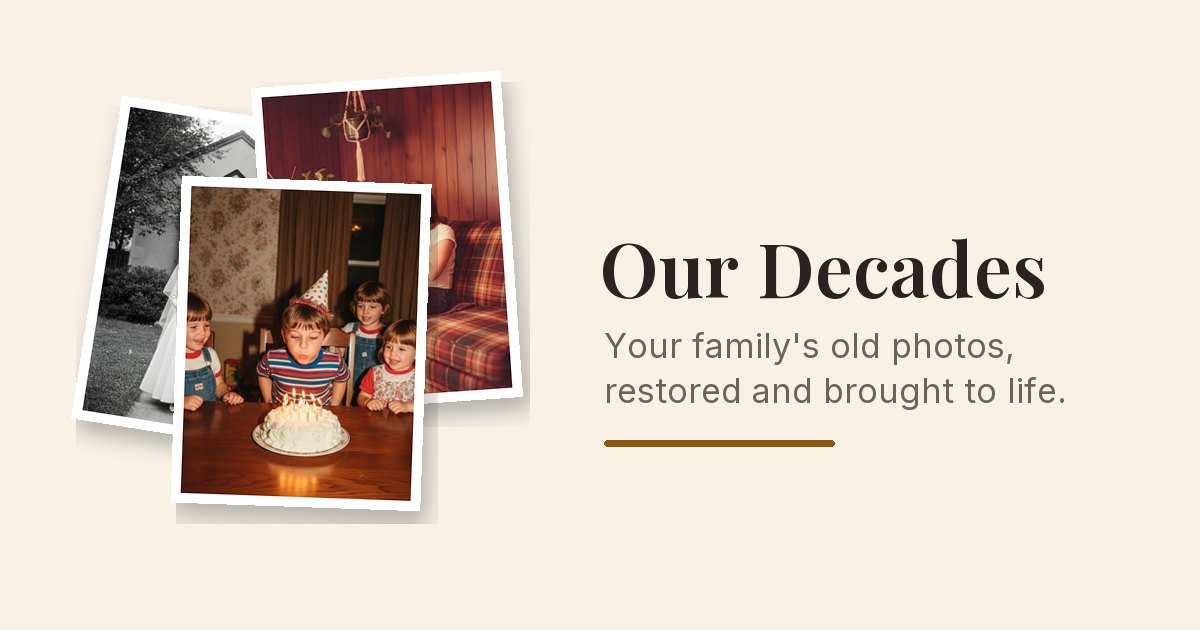
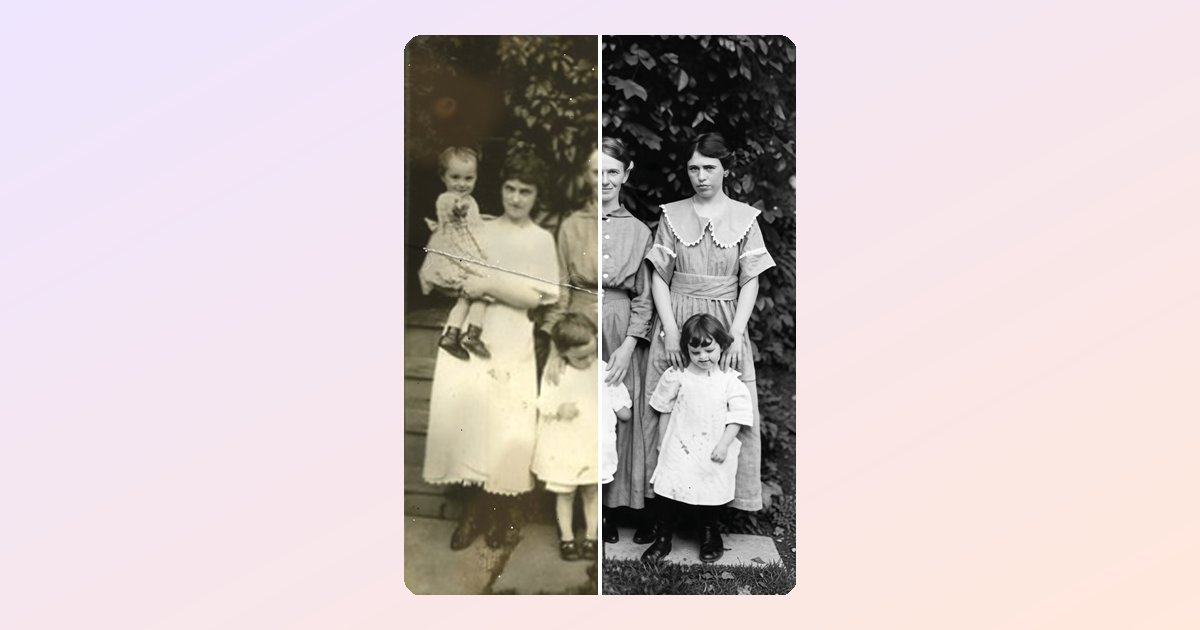
Home page: a real box to leave an email (the mailto: button did nothing in most browsers); privacy line for it; terms in the current look

diff --git a/index.html b/index.html
@@ -19,7 +19,7 @@
 <style>
 :root{--bg:#000000;--surface:#1C1C1E;--text:#F7F7F8;--text2:#A4A3AE;--accent:#B4A2FF;--tint:#241D45;
   --wash1:#2A1960;--wash2:#3E1238;--main:linear-gradient(90deg,#D62A84,#6A45F5);
-  --ink:linear-gradient(90deg,#FF6DB3,#B4A2FF);--line:rgba(255,255,255,.1);color-scheme:dark}
+  --ink:linear-gradient(90deg,#FF6DB3,#B4A2FF);--line:rgba(255,255,255,.1);--warn:#FF9AB8;color-scheme:dark}
 *{box-sizing:border-box}
 html{-webkit-text-size-adjust:100%;scroll-behavior:smooth;background:var(--bg)}
 body{margin:0;background:var(--bg);color:var(--text);overflow-x:clip;
@@ -38,6 +38,15 @@ a{color:var(--accent)}
 .pill.main{background:var(--main);color:#FFFFFF}
 .pill.small{min-height:44px;padding:0 18px;font-size:15px;white-space:nowrap}
 .pill:active{opacity:.85}
+.notify{display:flex;flex-wrap:wrap;gap:10px;width:100%;max-width:540px}
+.notify [hidden]{display:none!important}
+.notify input[type=email]{flex:1 1 220px;min-width:0;min-height:52px;padding:0 22px;border-radius:999px;font:inherit;
+  font-size:17px;color:var(--text);background:var(--surface);border:1px solid var(--line)}
+.notify input[type=email]::placeholder{color:var(--text2)}
+.notify .pill{flex:0 0 auto;border:0;font:inherit;font-weight:600;cursor:pointer}
+.notify .pill:disabled{opacity:.6}
+.notify .done{flex-basis:100%;margin:0;font-size:19px;font-weight:600;color:var(--text)}
+.notify .err{flex-basis:100%;margin:0;font-size:15px;color:var(--warn)}
 .brand{display:inline-flex;align-items:center;gap:10px;color:var(--text);text-decoration:none;
   font:800 18px/1 ui-rounded,"SF Pro Rounded",system-ui,sans-serif}
 .brand img{width:32px;height:32px;border-radius:8px}
@@ -229,7 +238,7 @@ h2{font-size:clamp(28px,4.4vw,46px);line-height:1.08}
 </style></head><body>
 
 <header class="nav"><div class="wrap"><a class="brand" href="#top"><img src="/home/icon-64.png" alt="" width="32"
-height="32">Our Decades</a><a class="pill main small get" href="mailto:hello@our-decades.com?subject=Tell%20me%20when%20Our%20Decades%20is%20on%20the%20App%20Store">Email me</a></div></header>
+height="32">Our Decades</a><a class="pill main small get" href="#notify">Email me</a></div></header>
 
 <main id="top">
 <section class="hero" style="padding:0"><div class="wrap">
@@ -238,7 +247,7 @@ height="32">Our Decades</a><a class="pill main small get" href="mailto:hello@our
     <h1>Scan the family album. Get every photo back <span class="ink">restored</span></h1>
     <p class="sub">Point your iPhone at an album page. Every photo on it is cut out, straightened and restored: fading,
     scratches and dust, fixed for you</p>
-    <div class="cta" id="herocta"><a class="pill main get" href="mailto:hello@our-decades.com?subject=Tell%20me%20when%20Our%20Decades%20is%20on%20the%20App%20Store">Email me when it’s live</a><span class="note"><b>Coming to the App Store this week</b><br>Your first 15 photos are free</span></div>
+    <div class="cta" id="herocta"><form class="notify" id="notify" action="https://api.our-decades.com/notify" method="post"><input type="email" name="email" required maxlength="254" autocomplete="email" inputmode="email" placeholder="Your email" aria-label="Your email"><input type="hidden" name="from" value="hero"><button class="pill main get" type="submit">Email me when it’s live</button><p class="done" role="status" hidden>Thanks. We’ll email you the day it’s live</p><p class="err" role="alert" hidden></p></form><span class="note"><b>Coming to the App Store this week</b><br>Your first 15 photos are free</span></div>
   </div>
   <div class="phone" role="img" aria-label="An iPhone showing a creased old print being restored">
     <div class="bar"></div>
@@ -314,17 +323,17 @@ height="32">Our Decades</a><a class="pill main small get" href="mailto:hello@our
 </div></div></section>
 
 <section id="faq" style="padding-top:0"><div class="wrap"><div class="head"><h2>Questions</h2></div>
-  <div class="faq"><details><summary>Is it really free?</summary><p>Your first 15 photos are free: restored, and yours to keep. You can start without signing in. Free photos you save or share carry a small “Made with Our Decades” mark; the yearly plan or the 100 photos removes it</p></details><details><summary>Do I need a scanner?</summary><p>No. Your iPhone’s camera is the scanner. Point it at a whole album page and every print on it becomes its own photo. Old pictures already on your iPhone, or in a WhatsApp chat, work too</p></details><details><summary>Will it change how people look?</summary><p>The restore is made to keep every face theirs, and we’d rather do less than turn someone into a stranger. The original scan is always kept: hold a photo to see it</p></details><details><summary>How do I cancel, or delete everything?</summary><p>Cancel the yearly plan any time in your iPhone’s Settings, under your name, then Subscriptions. What you made stays yours. To remove your account and every photo, story and video: Settings in the app, “Delete my account and photos”. Deleted means deleted</p></details><details><summary>When can I get it?</summary><p>Our Decades is coming to the App Store this week, on iPhone, in the United States. Write to <a href="mailto:hello@our-decades.com?subject=Tell%20me%20when%20Our%20Decades%20is%20on%20the%20App%20Store">hello@our-decades.com</a> and we’ll tell you the day it’s live</p></details></div></div></section>
+  <div class="faq"><details><summary>Is it really free?</summary><p>Your first 15 photos are free: restored, and yours to keep. You can start without signing in. Free photos you save or share carry a small “Made with Our Decades” mark; the yearly plan or the 100 photos removes it</p></details><details><summary>Do I need a scanner?</summary><p>No. Your iPhone’s camera is the scanner. Point it at a whole album page and every print on it becomes its own photo. Old pictures already on your iPhone, or in a WhatsApp chat, work too</p></details><details><summary>Will it change how people look?</summary><p>The restore is made to keep every face theirs, and we’d rather do less than turn someone into a stranger. The original scan is always kept: hold a photo to see it</p></details><details><summary>How do I cancel, or delete everything?</summary><p>Cancel the yearly plan any time in your iPhone’s Settings, under your name, then Subscriptions. What you made stays yours. To remove your account and every photo, story and video: Settings in the app, “Delete my account and photos”. Deleted means deleted</p></details><details><summary>When can I get it?</summary><p>Our Decades is coming to the App Store this week, on iPhone, in the United States. <a href="#notify">Leave your email</a> and we’ll tell you the day it’s live</p></details></div></div></section>
 
 <section class="final"><div class="wrap">
   <h2 class="reveal">Start with one page</h2>
   <p class="dim reveal" style="margin-top:12px;font-size:19px">Your first 15 photos are free. No sign-in to start</p>
-  <div class="cta"><a class="pill main get" href="mailto:hello@our-decades.com?subject=Tell%20me%20when%20Our%20Decades%20is%20on%20the%20App%20Store">Email me when it’s live</a><span class="note">Coming to the App Store this week</span></div>
+  <div class="cta"><form class="notify" action="https://api.our-decades.com/notify" method="post"><input type="email" name="email" required maxlength="254" autocomplete="email" inputmode="email" placeholder="Your email" aria-label="Your email"><input type="hidden" name="from" value="final"><button class="pill main get" type="submit">Email me when it’s live</button><p class="done" role="status" hidden>Thanks. We’ll email you the day it’s live</p><p class="err" role="alert" hidden></p></form><span class="note">Coming to the App Store this week</span></div>
 </div></section>
 </main>
 <footer><div><a href="/privacy">Privacy</a><a href="/terms">Terms</a><a href="/support">Support</a></div>
 <p>Our Decades is on iPhone, in the United States · © 2026 Redwood Oaks LLC</p></footer>
-<div class="stick" id="stick"><span>Our Decades<br><span class="dim" style="font-weight:400">Coming to the App Store this week</span></span><a class="pill main small get" href="mailto:hello@our-decades.com?subject=Tell%20me%20when%20Our%20Decades%20is%20on%20the%20App%20Store">Email me</a></div>
+<div class="stick" id="stick"><span>Our Decades<br><span class="dim" style="font-weight:400">Coming to the App Store this week</span></span><a class="pill main small get" href="#notify">Email me</a></div>
 <script>
 (function(){
   var rm=matchMedia('(prefers-reduced-motion:reduce)').matches;
@@ -362,6 +371,19 @@ height="32">Our Decades</a><a class="pill main small get" href="mailto:hello@our
   document.querySelectorAll('.tabs button').forEach(function(b){b.addEventListener('click',function(){
     document.querySelectorAll('.tabs button').forEach(function(x){x.setAttribute('aria-pressed',x===b)});
     document.querySelectorAll('[data-pane]').forEach(function(p){p.hidden=p.getAttribute('data-pane')!==b.getAttribute('data-tab')})})});
+  // "Email me when it's live": saved on our server, answered on the page (no mail app needed)
+  document.querySelectorAll('form.notify').forEach(function(f){f.addEventListener('submit',function(ev){
+    ev.preventDefault();var b=f.querySelector('button'),err=f.querySelector('.err');b.disabled=true;err.hidden=true;
+    fetch(f.action+'?js=1',{method:'POST',body:new URLSearchParams(new FormData(f))})
+      .then(function(r){if(!r.ok)throw r;return r.json()})
+      .then(function(){document.querySelectorAll('form.notify').forEach(function(g){
+        g.querySelectorAll('input,button').forEach(function(x){x.hidden=true});g.querySelector('.done').hidden=false})})
+      .catch(function(r){b.disabled=false;err.textContent=r&&r.status===422?'That email doesn’t look right':
+        'That didn’t go through. Try again';err.hidden=false})})});
+  document.querySelectorAll('a[href="#notify"]').forEach(function(a){a.addEventListener('click',function(ev){
+    var box=document.getElementById('notify');if(!box)return;ev.preventDefault();
+    box.scrollIntoView({behavior:rm?'auto':'smooth',block:'center'});
+    var i=box.querySelector('input[type=email]');if(i&&!i.hidden)i.focus({preventScroll:true})})});
   // the bottom bar on a phone, once the first button has scrolled away
   var s=document.getElementById('stick');
   new IntersectionObserver(function(es){s.classList.toggle('on',!es[0].isIntersecting)}).observe(document.getElementById('herocta'));

diff --git a/terms/index.html b/terms/index.html
@@ -4,31 +4,46 @@
 <meta name="description" content="The terms of Our Decades.">
 <meta property="og:site_name" content="Our Decades"><meta property="og:type" content="website">
 <meta property="og:title" content="Terms"><meta property="og:description" content="The terms of Our Decades.">
-<meta property="og:image" content="https://our-decades.com/preview.jpg"><meta property="og:image:width" content="1200">
-<meta property="og:image:height" content="630">
+<meta property="og:image" content="https://our-decades.com/preview.jpg"><meta property="og:image:width" content="1200"><meta property="og:image:height" content="630">
 <meta name="twitter:card" content="summary_large_image">
-<meta name="theme-color" content="#F7F1E6" media="(prefers-color-scheme: light)">
-<meta name="theme-color" content="#1A1714" media="(prefers-color-scheme: dark)">
+<meta name="theme-color" content="#FFFFFF" media="(prefers-color-scheme: light)">
+<meta name="theme-color" content="#000000" media="(prefers-color-scheme: dark)">
 <style>
-:root{--bg:#F7F1E6;--surface:#FFFBF4;--text:#2A2420;--text2:#6E6359;--accent:#8A570D;--on-accent:#FFFFFF}
-@media (prefers-color-scheme:dark){:root{--bg:#1A1714;--surface:#262119;--text:#F3ECE1;--text2:#B4A999;
-  --accent:#E8A63E;--on-accent:#1A1714}}
+:root{--bg:#FFFFFF;--surface:#F5F4FA;--text:#121218;--text2:#5E5D68;--accent:#6A45F5;--tint:#F0ECFF;
+  --wash1:#EEE6FF;--wash2:#FFE8DC;--main:linear-gradient(90deg,#D62A84,#6A45F5);color-scheme:light dark}
+@media (prefers-color-scheme:dark){:root{--bg:#000000;--surface:#1C1C1E;--text:#F7F7F8;--text2:#A4A3AE;
+  --accent:#B4A2FF;--tint:#241D45;--wash1:#2A1960;--wash2:#3E1238}}
+:root.black{--bg:#000000;--surface:#1C1C1E;--text:#F7F7F8;--text2:#A4A3AE;--accent:#B4A2FF;--tint:#241D45;
+  --wash1:#2A1960;--wash2:#3E1238;color-scheme:dark}
 *{box-sizing:border-box}
-body{margin:0;background:var(--bg);color:var(--text);font:17px/1.45 -apple-system,BlinkMacSystemFont,"Segoe UI",
-  Roboto,sans-serif;-webkit-text-size-adjust:100%}
-main{min-height:100svh;max-width:480px;margin:0 auto;padding:48px 24px 32px;display:flex;flex-direction:column;
-  justify-content:center;text-align:center;gap:16px}
-.mark{width:72px;height:72px;margin:0 auto 8px;border-radius:18px;background:var(--surface);display:grid;
-  place-items:center;box-shadow:0 2px 12px rgba(0,0,0,.08)}
-h1{font:600 30px/1.2 ui-serif,"New York",Georgia,serif;margin:0}
-p{margin:0;color:var(--text2)}
-.soon{margin-top:24px;font-weight:600;color:var(--accent)}
-footer{margin-top:40px;font-size:14px}footer a{color:var(--text2);text-decoration:none;margin:0 8px}
-.doc{text-align:left;justify-content:flex-start}
-.doc h1{font-size:28px;margin-bottom:8px}.doc h2{font:600 19px/1.3 ui-serif,"New York",Georgia,serif;margin:20px 0 4px}
-.doc p,.doc li{color:var(--text)}.doc ul{margin:0;padding-left:20px}
-.button{display:block;margin-top:24px;padding:16px;border-radius:14px;background:var(--accent);color:var(--on-accent);
-  font-weight:600;font-size:18px;text-decoration:none;border:0;width:100%;cursor:pointer}
+html{-webkit-text-size-adjust:100%}
+body{margin:0;background:var(--bg);color:var(--text);font:17px/1.4 -apple-system,system-ui,BlinkMacSystemFont,
+  "Segoe UI",Roboto,"Helvetica Neue",Arial,sans-serif}
+h1,h2,.rounded{font-family:ui-rounded,"SF Pro Rounded",-apple-system,system-ui,"Segoe UI",Roboto,sans-serif;
+  font-weight:800;letter-spacing:-.01em;margin:0}
+h1{font-size:30px;line-height:1.15}
+h2{font-size:24px;line-height:1.2}
+p{margin:0}
+.dim{color:var(--text2)}
+a{color:var(--accent)}
+.pill{display:flex;align-items:center;justify-content:center;min-height:52px;padding:0 28px;border-radius:999px;
+  border:0;font-family:inherit;font-weight:600;font-size:17px;line-height:1.2;text-decoration:none;cursor:pointer;width:100%;
+  -webkit-tap-highlight-color:transparent}
+.pill.main{background:var(--main);color:#FFFFFF}
+.pill.quiet{background:var(--tint);color:var(--accent)}
+.pill.small{min-height:44px;padding:0 18px;font-size:15px;width:auto;white-space:nowrap}
+.pill:active{opacity:.85}
+.col{max-width:480px;margin:0 auto;padding:0 16px}
+footer{padding:32px 16px calc(32px + env(safe-area-inset-bottom));text-align:center;font-size:14px}
+footer a{color:var(--text2);text-decoration:none;margin:0 10px;display:inline-block;min-height:44px;line-height:44px}
+/* simple pages: home, the end card's page */
+.simple{min-height:100svh;display:flex;flex-direction:column;justify-content:center;gap:16px;padding:48px 16px 24px;
+  max-width:480px;margin:0 auto;text-align:center}
+.simple .pill{margin-top:16px}
+/* privacy, terms */
+.doc{max-width:640px;margin:0 auto;padding:48px 16px 24px}
+.doc h1{margin-bottom:12px}.doc h2{font-size:20px;margin:24px 0 6px}
+.doc p,.doc li{line-height:1.5}.doc ul{margin:0;padding-left:20px}
 </style></head><body><main class="doc">
 <h1>Terms</h1>
 <h2>Your photos</h2>

diff --git a/privacy/index.html b/privacy/index.html
@@ -70,6 +70,8 @@ whether this iPhone already used its free first page (Apple's DeviceCheck keeps 
 <li>What happens in the app, like "page scanned" or "plan started", to count how the app is used, and crash
 reports from iOS (where the app stopped, the iPhone model and iOS version; never a photo). Crash reports are kept
 90 days.</li>
+<li>If you leave your email on our-decades.com to hear when the app is out: that email, used once to tell you, then
+deleted.</li>
 <li>When you tap "Get Our Decades" on an invite page, a scrambled form of your network's address for half an hour,
 so the app can offer that invite when you open it. Never the address itself.</li>
 </ul>
